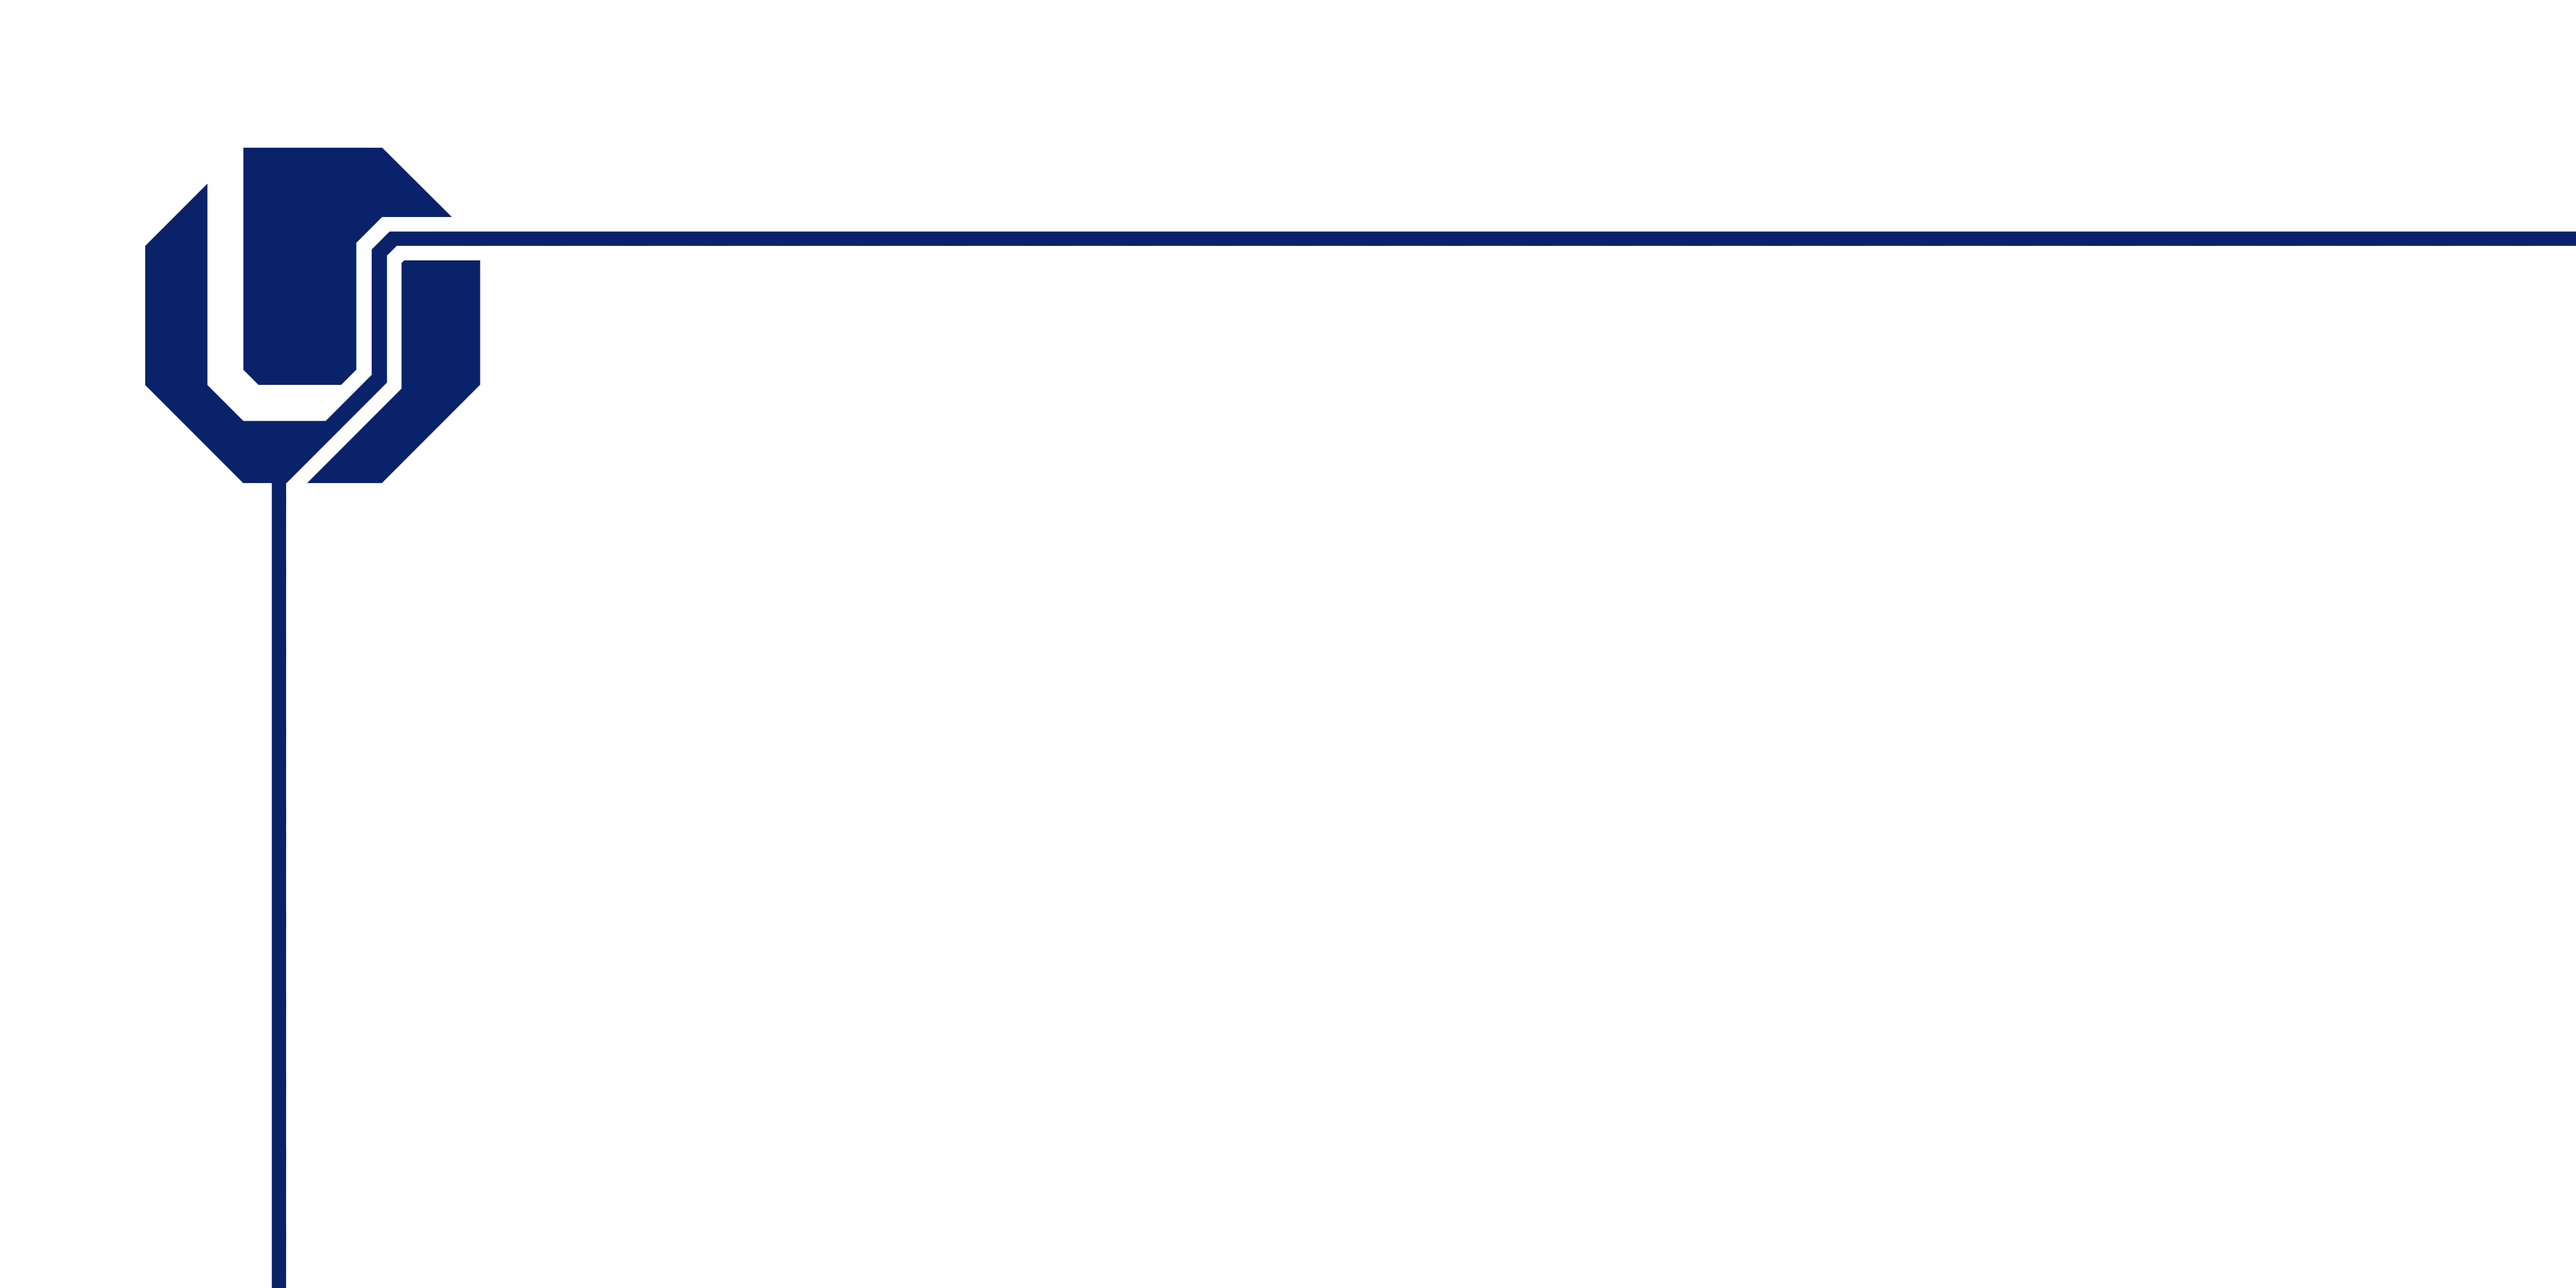
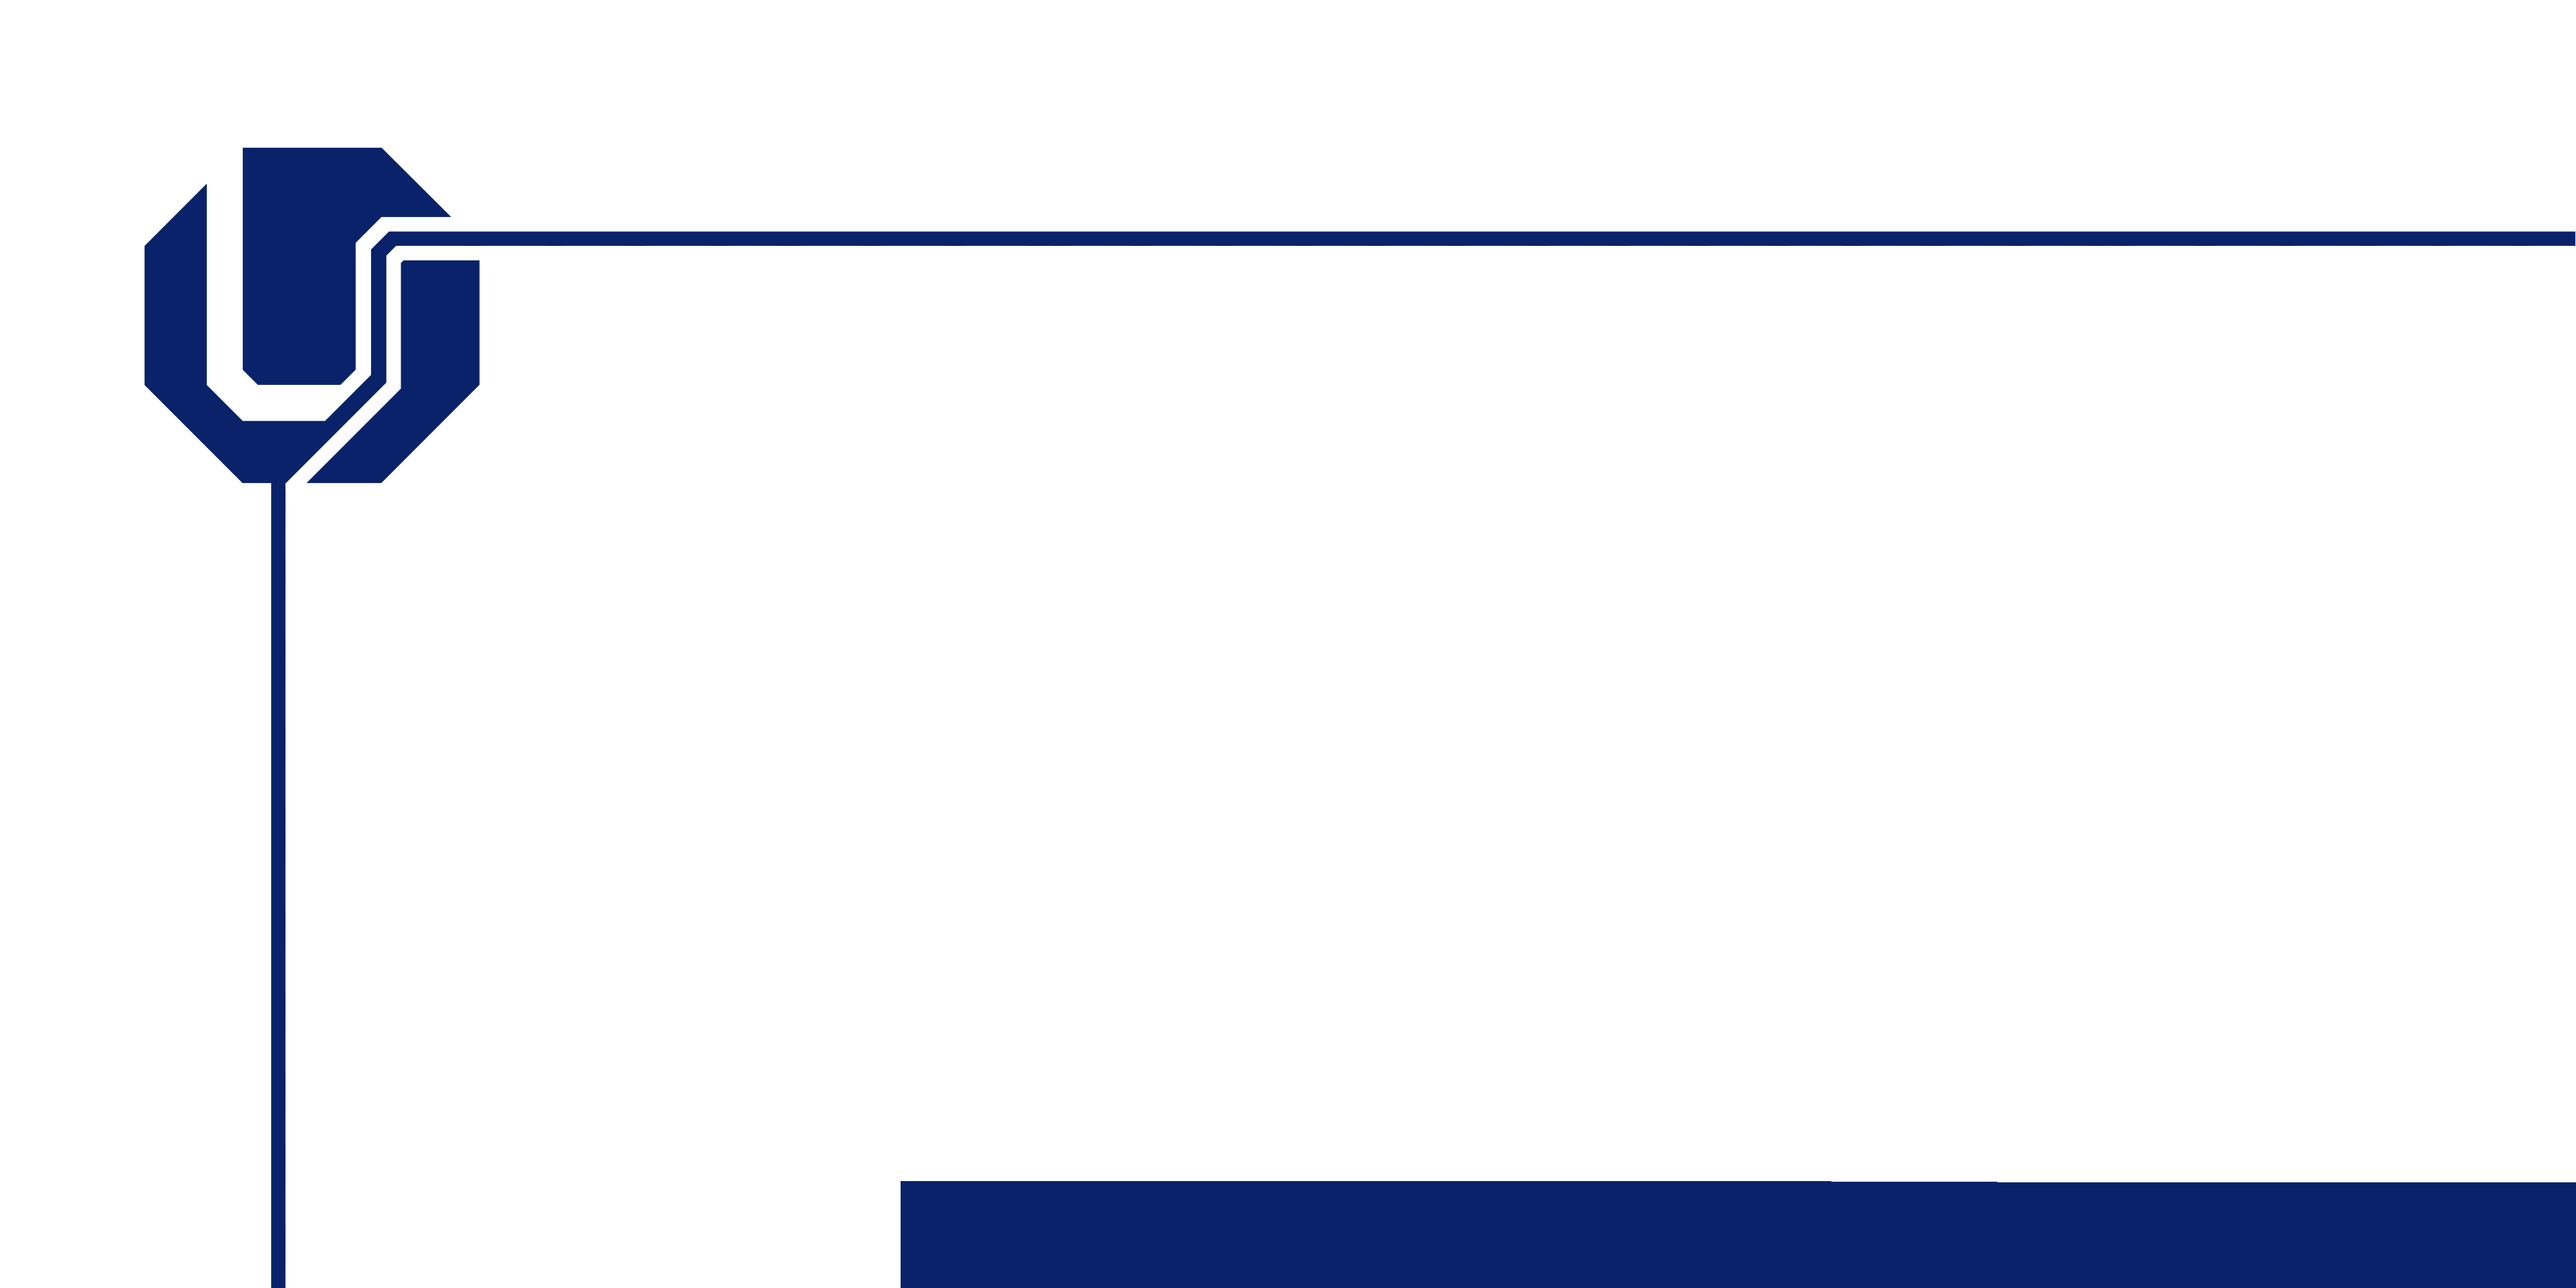
🌈 style: align user infos and add white stripe
Aligned user info and added white stripe on bottom-right corner

Changed region(s): [[0.3438, 0.9062, 1.0, 1.0]]

diff --git a/src/App.css b/src/App.css
@@ -1,5 +1,4 @@
-@import url('https://fonts.googleapis.com/css2?family=Arimo&display=swap');
-
+@import url('https://fonts.googleapis.com/css2?family=Arimo:wght@400;500;600;700&display=swap');
 * {
     margin: 0;
 }
@@ -15,9 +14,60 @@ body {
     color: white;
     height: 600px;
     width: 1250px;
+    position: relative;
 }
 
-#card > table > tr > img {
-    height:  50px;
-    border-radius: 100%;
+#card > table:nth-of-type(1) {
+    position: absolute;
+    top: 44%;
+    left: 13%;
 }
+
+#card > table:nth-of-type(1) > h4 {
+    font-size: 21px;
+}
+
+#card > table:nth-of-type(1) > h2 {
+    margin-top: 7px;
+    font-size: 32px;
+    font-weight: bolder;
+}
+
+#userInfo {
+    position: absolute;
+    right: 28.5%;
+    top: 24%;
+}
+
+#userInfo > tr {
+    display: flex;
+    align-items: center;
+    margin: 10px 0;
+}
+
+#userInfo > tr:nth-child(1){
+    font-size: 25px;
+    margin-bottom: 0;
+}
+
+#userInfo > tr:nth-child(2){
+    font-size: 17px;
+    margin-top: 0;
+    margin-bottom: 85px;
+}
+
+#userInfo > tr:nth-child(3), #userInfo > tr:nth-child(4), #userInfo > tr:nth-child(5), #userInfo > tr:nth-child(6){
+    font-size: 23px;
+    font-weight: 400;
+}
+
+#userInfo > tr > img {
+    height:  40px;
+    border-radius: 100%;
+    margin-right: 15px;
+}
+
+#userInfo > tr > h2, #card > table > h4 {
+    font-weight: 100;
+}
+
